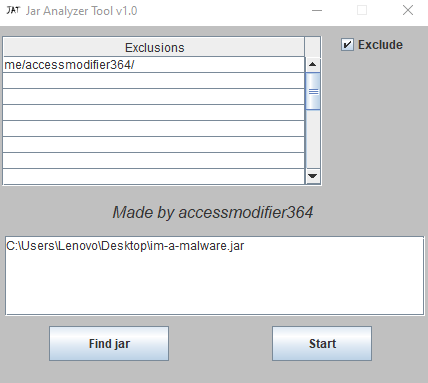
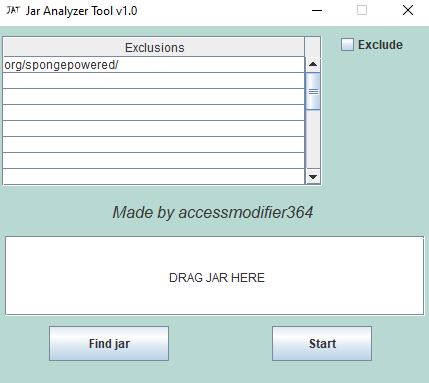
:)

diff --git a/src/main/java/me/accessmodifier364/jat/gui/GraphicalInterface.java b/src/main/java/me/accessmodifier364/jat/gui/GraphicalInterface.java
@@ -25,11 +25,13 @@ import java.util.Objects;
 
 public final class GraphicalInterface extends JFrame {
 
+    private static final Color color;
     public static final DefaultTableModel model;
     public static final JCheckBox checkBox;
     public static final JTextArea textArea;
 
     static {
+        color = new Color(184, 217, 209, 255);
         model = new DefaultTableModel();
         checkBox = new JCheckBox();
         textArea = new JTextArea();
@@ -46,7 +48,7 @@ public final class GraphicalInterface extends JFrame {
         /* Set some attributes to our gui (icon, size, background color). */
         setLayout(null);
         setResizable(false);
-        getContentPane().setBackground(Color.LIGHT_GRAY);
+        getContentPane().setBackground(color);
         setDefaultCloseOperation(JFrame.EXIT_ON_CLOSE);
         setIconImage(new ImageIcon(Objects.requireNonNull(getClass().getResource("/assets/icon.png"))).getImage());
         setSize(450, 400);
@@ -125,7 +127,7 @@ public final class GraphicalInterface extends JFrame {
 
         /* Add the exclusions checkbox */
         checkBox.setText("Exclude");
-        checkBox.setBackground(Color.LIGHT_GRAY);
+        checkBox.setBackground(color);
         checkBox.setBounds(getWidth() - 110, 8, 100, 20);
         add(checkBox);
 
